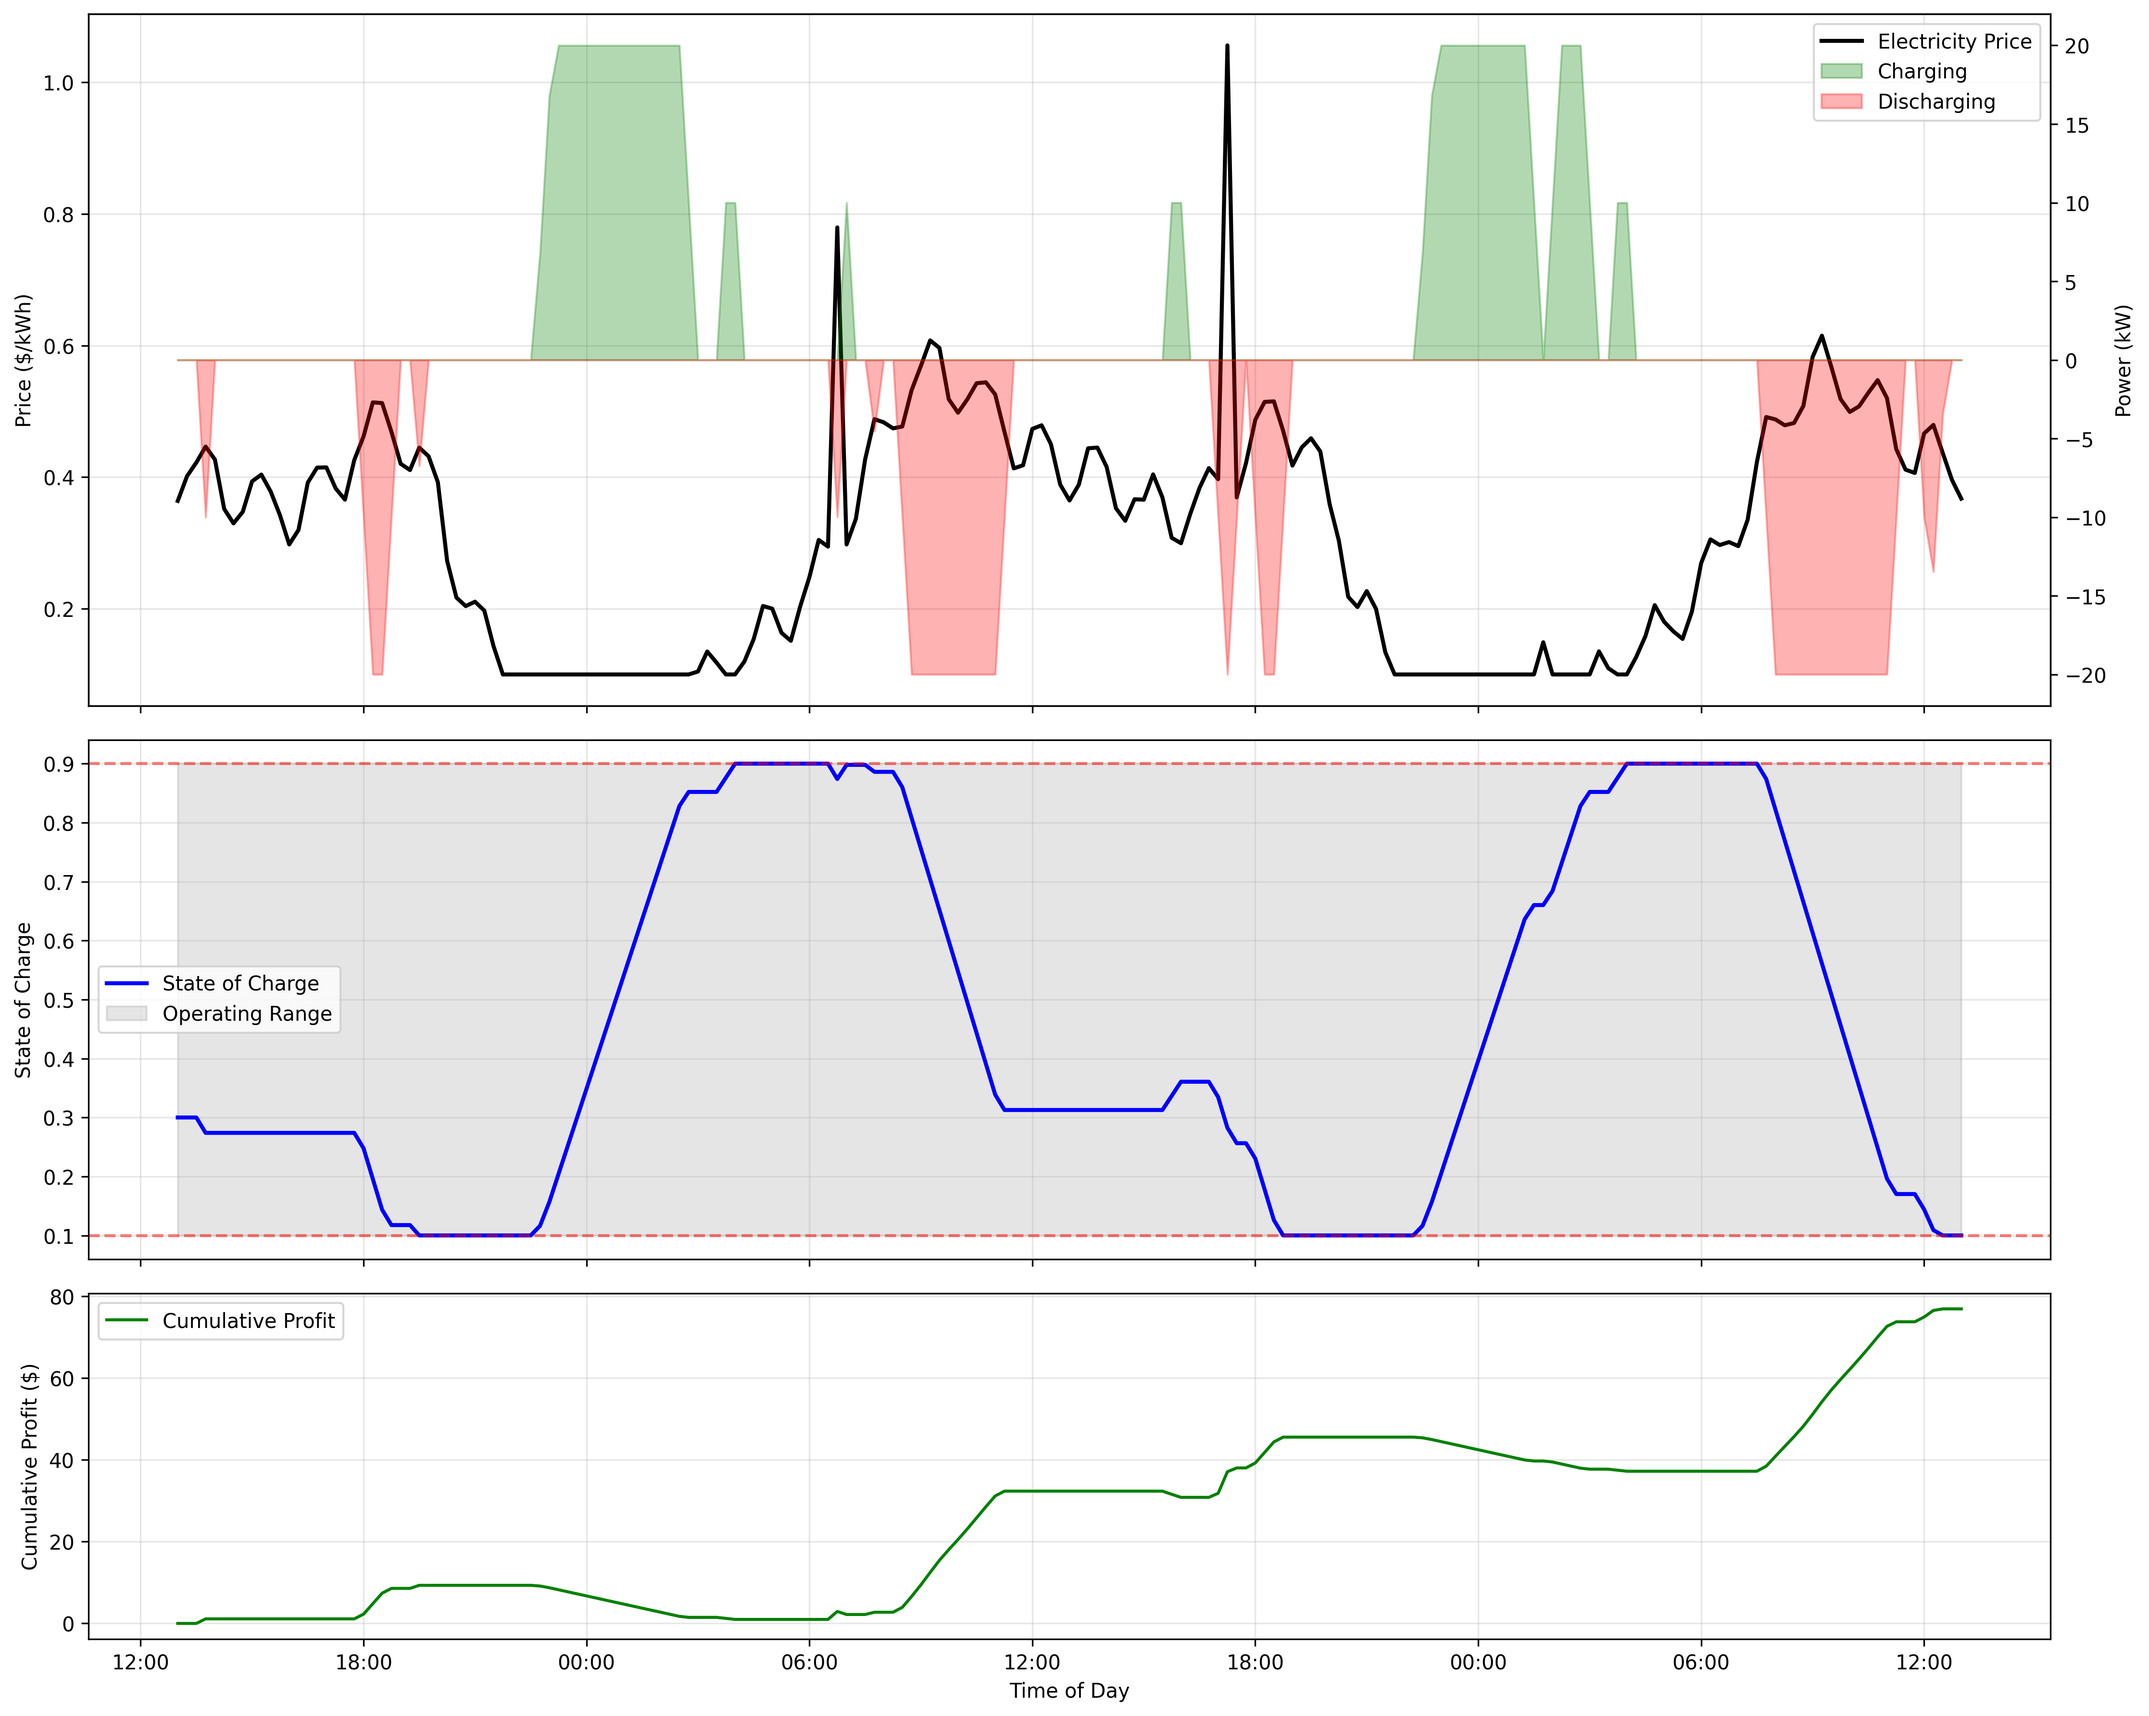
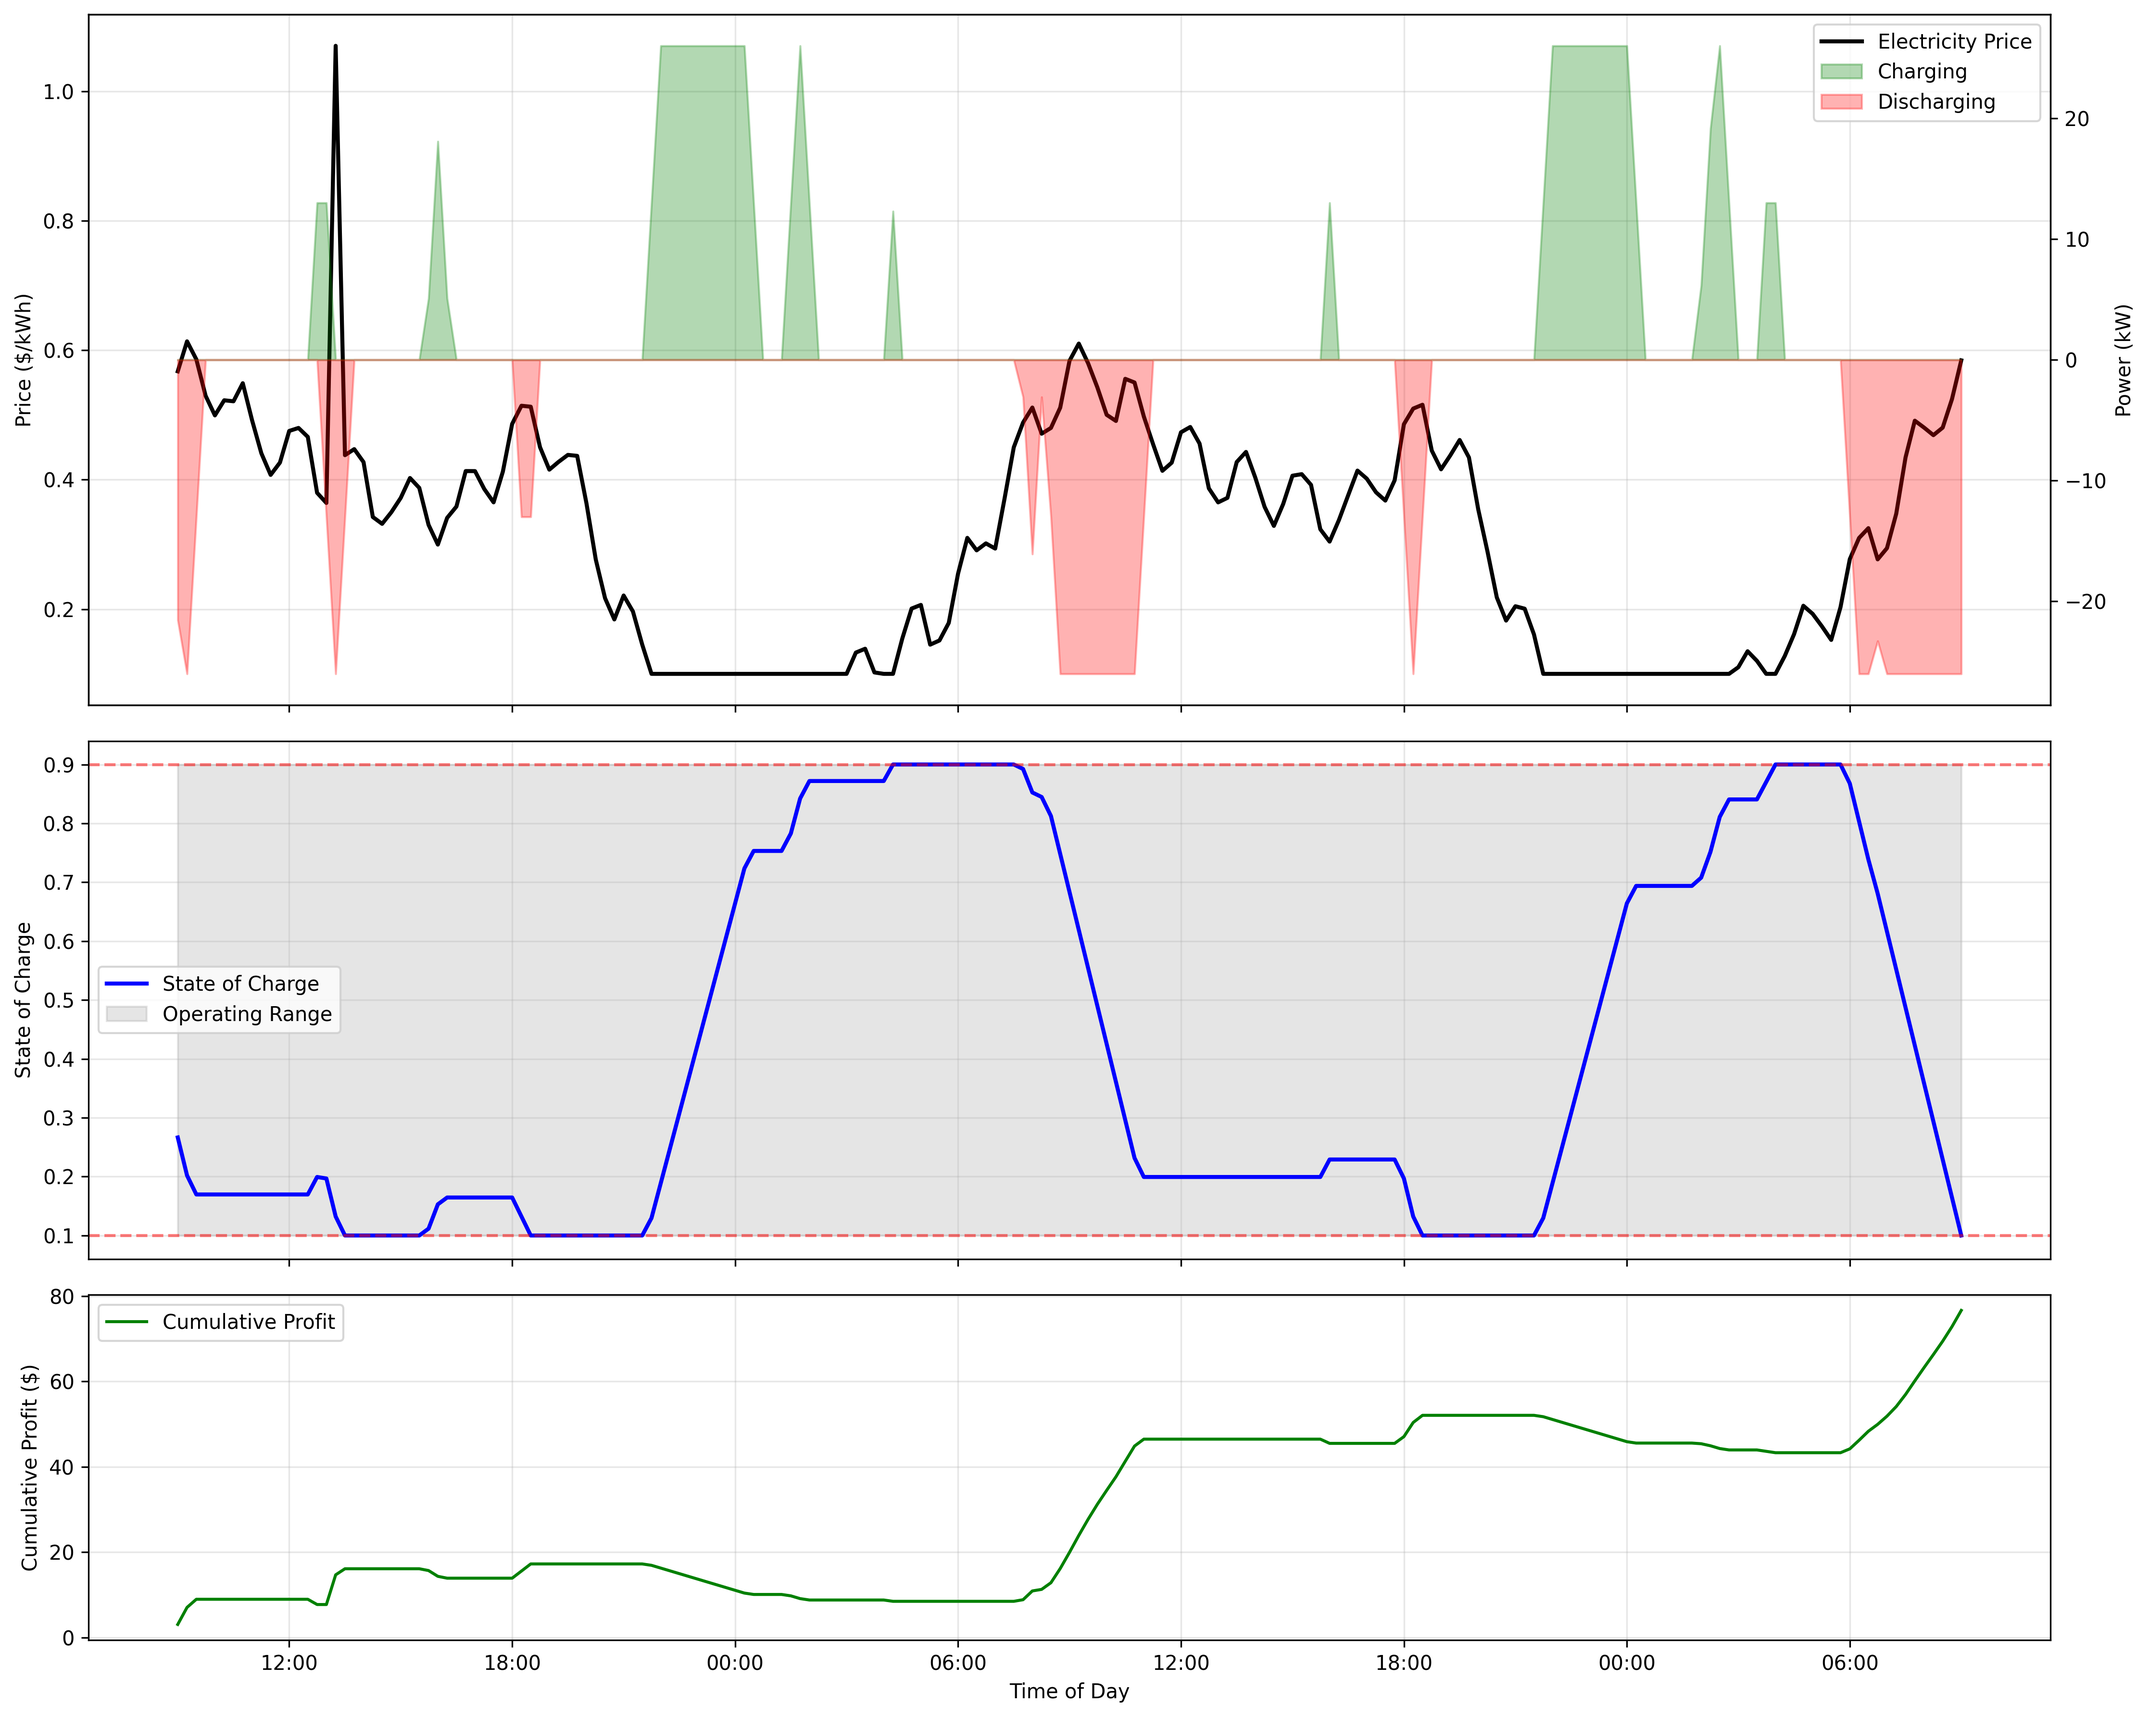
testing more gurobipy

diff --git a/gurobisolve.py b/gurobisolve.py
@@ -1,0 +1,35 @@
+from gurobipy import Model, GRB
+
+# Step 1: Initialize Model
+model = Model("Production Optimization")
+
+# Step 2: Define Decision Variables
+# Variables x and y represent the units of Product A and B respectively
+x = model.addVar(name="Product_A", vtype=GRB.CONTINUOUS, lb=0)
+y = model.addVar(name="Product_B", vtype=GRB.CONTINUOUS, lb=0)
+
+# Step 3: Set the Objective Function
+# Objective: Maximize profit = 20x + 30y
+model.setObjective(20 * x + 30 * y, GRB.MAXIMIZE)
+
+# Step 4: Add Constraints
+# 1. Labor hours constraint: 2x + y <= 100
+model.addConstr(2 * x + y <= 100, name="Labor_Constraint")
+
+# 2. Material usage constraint: x + y <= 80
+model.addConstr(x + y <= 80, name="Material_Constraint")
+
+# 3. Demand constraint for Product A: x <= 40
+model.addConstr(x <= 40, name="Demand_Constraint")
+
+# Step 5: Solve the Model
+model.optimize()
+
+# Step 6: Output Results
+# Check if the model has an optimal solution
+if model.status == GRB.OPTIMAL:
+    print(f"Optimal Solution: Profit = ${model.objVal:.2f}")
+    print(f"Units of Product A: {x.x:.2f}")
+    print(f"Units of Product B: {y.x:.2f}")
+else:
+    print("No optimal solution found.")

diff --git a/energy_lp.py b/energy_lp.py
@@ -20,7 +20,7 @@ from matplotlib.gridspec import GridSpec
 load_dotenv()
 logging.basicConfig(level=logging.INFO)
 logger = logging.getLogger(__name__)
-
+ 
 class EnergyArbitrageOptimizer:
     """Optimize battery storage operation for continuous electricity price arbitrage."""
 
@@ -391,15 +391,15 @@ def main():
     try:
         # Initialize optimizer with realistic parameters
         optimizer = EnergyArbitrageOptimizer(
-            battery_capacity_kwh=100,
-            max_power_kw=20,
+            battery_capacity_kwh=105,
+            max_power_kw=26,
             battery_efficiency=0.92,
-            initial_soc=0.3,
+            initial_soc=0.32,
             min_soc=0.1,
             max_soc=0.9,
-            cycle_life=3000,
-            calendar_life_years=10,
-            battery_cost=400,
+            cycle_life=3500,
+            calendar_life_years=8,
+            battery_cost=499,
             time_resolution='15min'
         )
 

diff --git a/mip.py b/mip.py
@@ -1,0 +1,28 @@
+import gurobipy as gp
+from gurobipy import GRB
+
+# Create a new model
+model = gp.Model("mip_example")
+
+# Add variables
+x = model.addVar(vtype=GRB.INTEGER, name="x")  # x is an integer
+y = model.addVar(vtype=GRB.CONTINUOUS, name="y")  # y is continuous
+
+# Set the objective function
+model.setObjective(3 * x + 5 * y, GRB.MAXIMIZE)
+
+# Add constraints
+model.addConstr(x + 2 * y <= 10, "c1")
+model.addConstr(3 * x + 4 * y <= 18, "c2")
+model.addConstr(x >= 0, "c3")
+model.addConstr(y >= 0, "c4")
+
+# Optimize the model
+model.optimize()
+
+# Display the results
+if model.status == GRB.OPTIMAL:
+    print(f"Optimal solution found: x = {x.x}, y = {y.x}")
+    print(f"Objective value: {model.objVal}")
+else:
+    print("No optimal solution found.")

diff --git a/README.md b/README.md
@@ -27,6 +27,7 @@ The project includes an energy arbitrage optimization model that maximizes profi
 - State of charge management
 
 ### Optimization Results
+ > Results are changed each time iteration is run since I am manipulating data.
 The model achieves significant profit optimization while maintaining battery health:
 - Net Profit: $53.35
 - Energy Charged: 174.3 kWh
